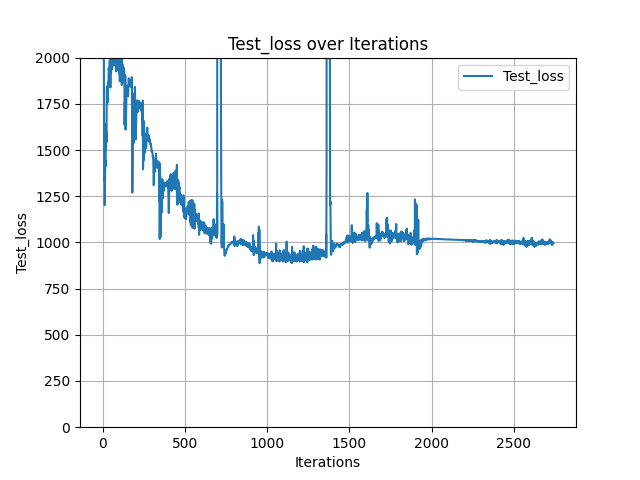
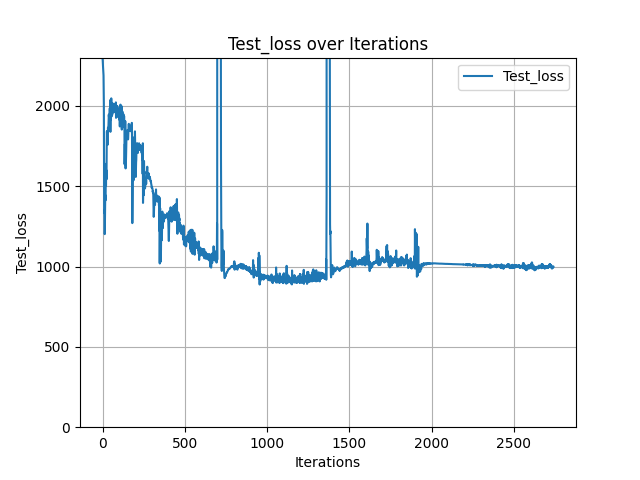
commit 10_01

diff --git a/metrics_analysis.py b/metrics_analysis.py
@@ -50,7 +50,7 @@ if __name__ == "__main__":
             #"MSE": (0, 0.1),
             "PSNR": (0, 40),
             "SSIM": (0, 1),
-            "Test_loss": (0, 2000),
+            "Test_loss": (0, 2300),
             "Train_loss": (0, 1000)
         }
 
